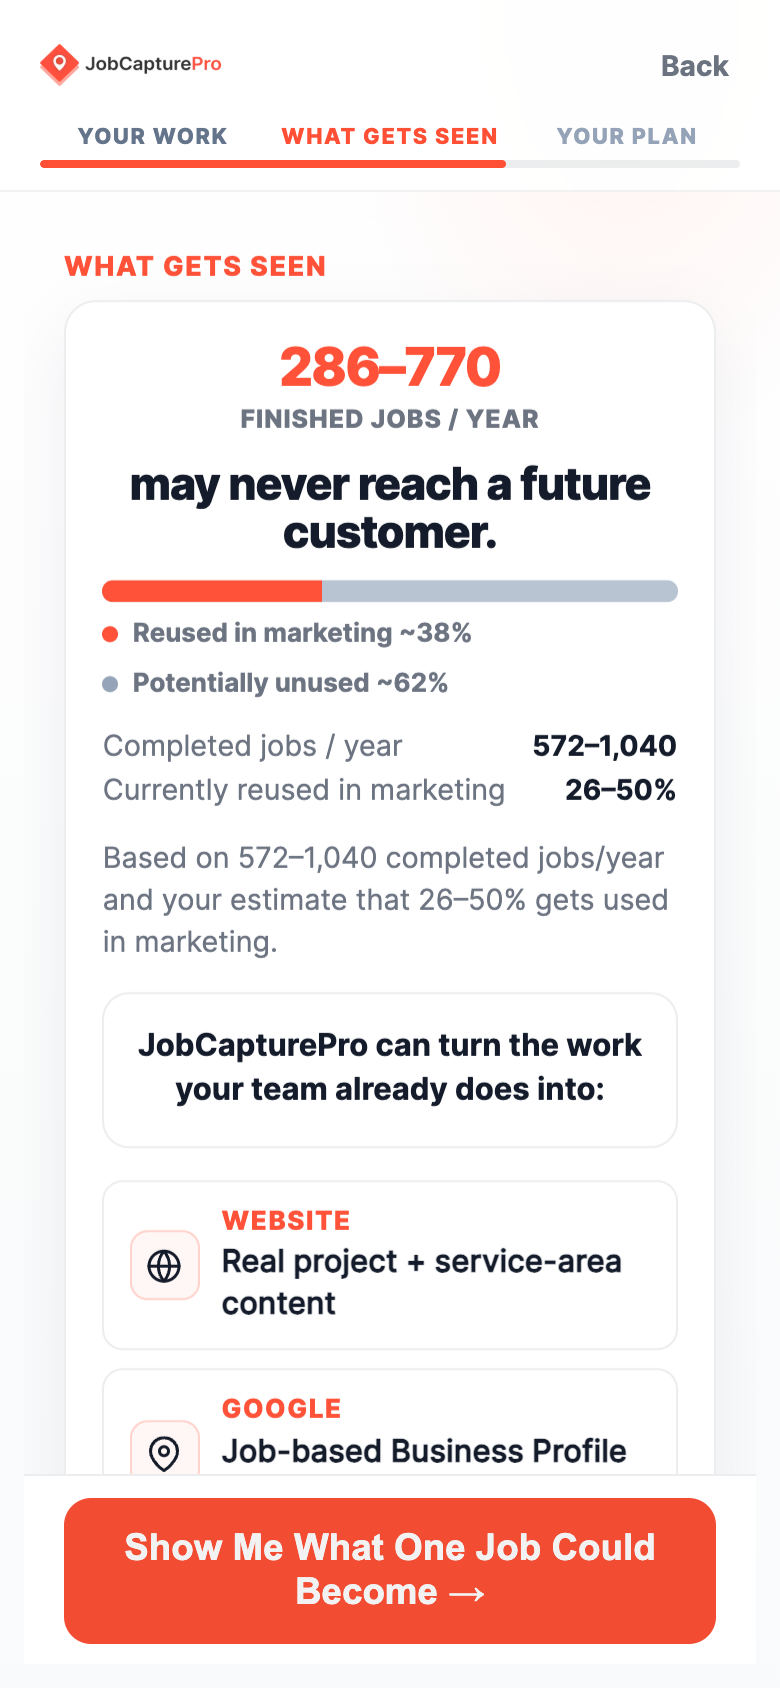
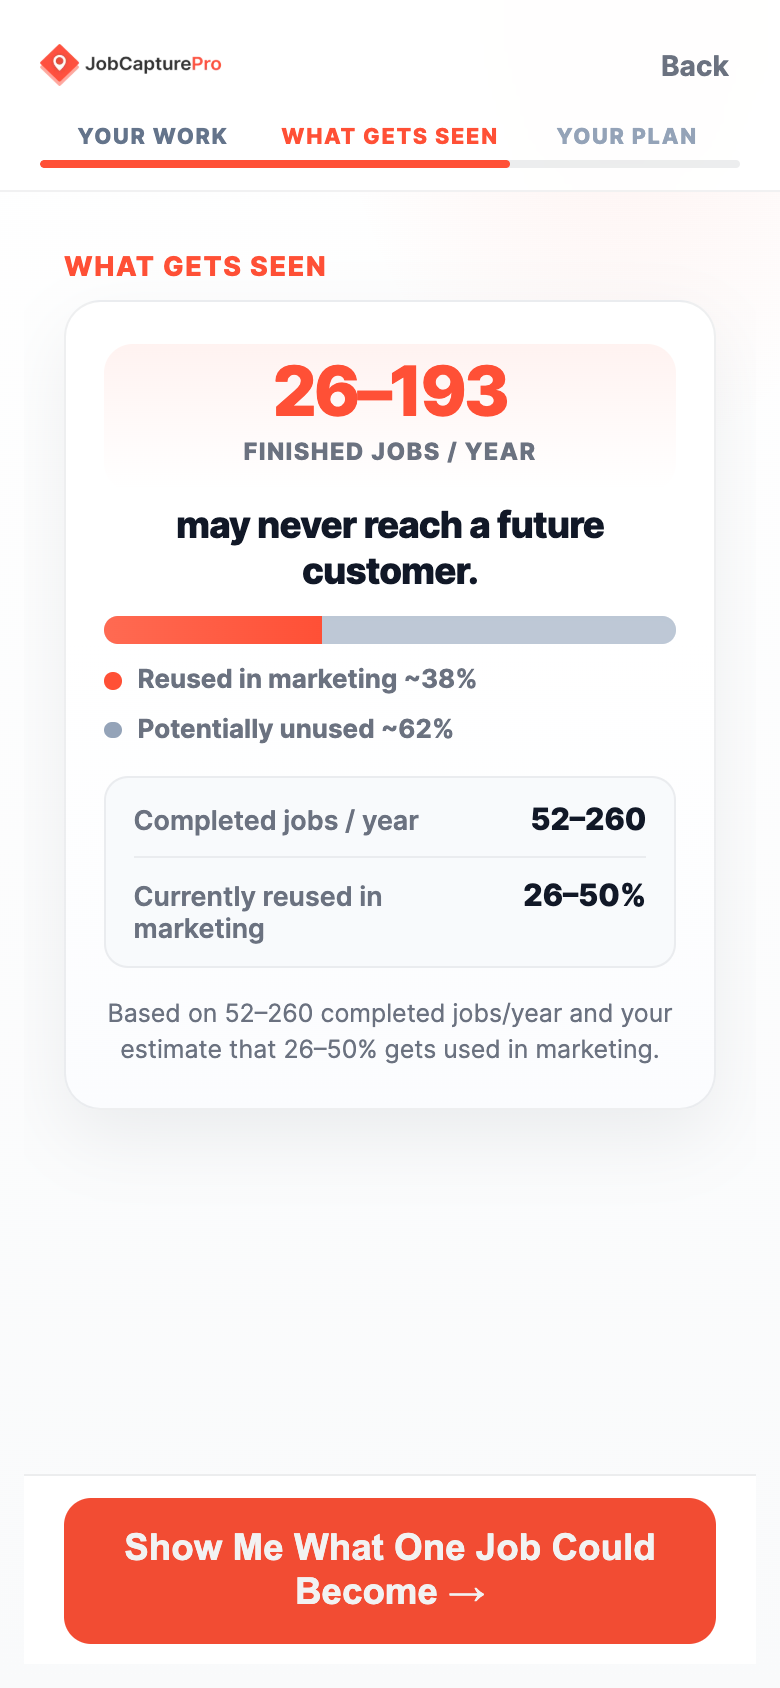
Strip result channel list and strengthen the metrics card.

diff --git a/css/pages/proof-gap.css b/css/pages/proof-gap.css
@@ -638,11 +638,14 @@ body.jcp-proof-gap .pg-btn:disabled {
 }
 
 body.jcp-proof-gap .pg-result {
-  padding: 1.15rem;
-  border-radius: 1rem;
-  border: 1px solid rgba(15, 23, 42, 0.08);
-  background: var(--pg-card);
-  box-shadow: 0 12px 32px rgba(15, 23, 42, 0.06);
+  padding: 1.35rem 1.2rem 1.25rem;
+  border-radius: 1.15rem;
+  border: 1px solid rgba(15, 23, 42, 0.07);
+  background:
+    linear-gradient(180deg, #fff 0%, #fff 42%, #fbfcfe 100%);
+  box-shadow:
+    0 1px 0 rgba(255, 255, 255, 0.9) inset,
+    0 14px 36px rgba(15, 23, 42, 0.07);
 }
 
 body.jcp-proof-gap .pg-result__meta {
@@ -696,8 +699,9 @@ body.jcp-proof-gap .pg-result__vs {
 }
 
 body.jcp-proof-gap .pg-result__note {
-  margin: 1rem 0 0;
-  font-size: 0.9rem;
+  margin: 0.85rem 0 0;
+  text-align: center;
+  font-size: 0.78rem;
   line-height: 1.45;
   color: var(--pg-muted);
 }
@@ -2040,22 +2044,27 @@ body.jcp-proof-gap .pg-proof-grid__cap {
 
 body.jcp-proof-gap .pg-result__hero {
   text-align: center;
-  margin-bottom: 0.75rem;
+  margin: 0 0 0.35rem;
+  padding: 0.35rem 0.5rem 0.7rem;
+  border-radius: 0.9rem;
+  background: linear-gradient(180deg, rgba(255, 80, 54, 0.07) 0%, rgba(255, 80, 54, 0.02) 70%, transparent 100%);
 }
 
 body.jcp-proof-gap .pg-result__hero-num {
   display: block;
-  font-size: clamp(1.65rem, 5vw, 2.15rem);
+  font-size: clamp(2.15rem, 8.5vw, 2.85rem);
   font-weight: 900;
-  letter-spacing: -0.03em;
+  letter-spacing: -0.04em;
   color: var(--pg-accent);
-  line-height: 1.1;
+  line-height: 1.05;
 }
 
 body.jcp-proof-gap .pg-result__hero-label {
-  font-size: 0.78rem;
+  display: inline-block;
+  margin-top: 0.35rem;
+  font-size: 0.74rem;
   font-weight: 800;
-  letter-spacing: 0.04em;
+  letter-spacing: 0.06em;
   text-transform: uppercase;
   color: var(--pg-muted);
 }
@@ -2131,11 +2140,14 @@ body.jcp-proof-gap .pg-gap-viz__dot--gap {
 
 body.jcp-proof-gap .pg-result__stats {
   list-style: none;
-  margin: 0;
-  padding: 0;
+  margin: 0.15rem 0 0;
+  padding: 0.7rem 0.85rem;
   display: grid;
-  gap: 0.35rem;
+  gap: 0.55rem;
   font-size: 0.9rem;
+  border-radius: 0.75rem;
+  background: #f8fafc;
+  border: 1px solid rgba(15, 23, 42, 0.06);
 }
 
 body.jcp-proof-gap .pg-result__stats li {
@@ -2145,15 +2157,24 @@ body.jcp-proof-gap .pg-result__stats li {
   gap: 0.75rem;
 }
 
+body.jcp-proof-gap .pg-result__stats li + li {
+  padding-top: 0.55rem;
+  border-top: 1px solid rgba(15, 23, 42, 0.06);
+}
+
 body.jcp-proof-gap .pg-result__stats strong {
   white-space: nowrap;
   flex-shrink: 0;
-  font-size: 0.88rem;
+  font-size: 0.95rem;
+  font-weight: 800;
+  color: var(--pg-ink);
   text-align: right;
 }
 
 body.jcp-proof-gap .pg-result__stats span {
   color: var(--pg-muted);
+  font-weight: 600;
+  font-size: 0.84rem;
 }
 
 body.jcp-proof-gap .pg-job-card__neutral {
@@ -3191,27 +3212,28 @@ body.jcp-proof-gap .pg-dest-panel.is-switching {
 
 /* ─── Result horizontal bar only ─── */
 body.jcp-proof-gap .pg-result-bar {
-  margin: 0.5rem 0 0.75rem;
+  margin: 0.35rem 0 0.95rem;
 }
 body.jcp-proof-gap .pg-result-bar__track {
   display: flex;
-  height: 0.65rem;
+  height: 0.9rem;
   border-radius: 999px;
   overflow: hidden;
-  background: #e2e8f0;
+  background: #e8edf3;
+  box-shadow: inset 0 1px 2px rgba(15, 23, 42, 0.06);
 }
 body.jcp-proof-gap .pg-result-bar__seg--visible {
-  background: var(--pg-accent);
+  background: linear-gradient(90deg, #ff6a52, var(--pg-accent));
 }
 body.jcp-proof-gap .pg-result-bar__seg--gap {
-  background: #94a3b8;
-  opacity: 0.55;
+  background: #b6c2d1;
+  opacity: 0.85;
 }
 body.jcp-proof-gap .pg-result-bar__legend {
   display: flex;
   flex-wrap: wrap;
-  gap: 0.45rem 0.85rem;
-  margin-top: 0.45rem;
+  gap: 0.45rem 1rem;
+  margin-top: 0.55rem;
   font-size: var(--pg-fs-tertiary);
   color: var(--pg-muted);
   font-weight: 650;
@@ -3224,10 +3246,10 @@ body.jcp-proof-gap .pg-result-bar__legend > span {
 }
 body.jcp-proof-gap .pg-result-bar__dot {
   display: inline-block;
-  width: 0.5rem;
-  height: 0.5rem;
+  width: 0.55rem;
+  height: 0.55rem;
   border-radius: 50%;
-  margin-right: 0.25rem;
+  margin-right: 0.3rem;
   vertical-align: middle;
 }
 body.jcp-proof-gap .pg-result-bar__dot--visible {
@@ -3397,8 +3419,10 @@ body.jcp-proof-gap .proof-gap-insight-card--jobs .proof-gap-insight-card__extra 
 }
 
 body.jcp-proof-gap .pg-result__title {
-  margin: 0.35rem 0 0.75rem;
+  margin: 0.15rem 0 0.55rem;
   text-align: center;
+  font-size: clamp(1.15rem, 3.8vw, 1.4rem);
+  line-height: 1.25;
 }
 
 body.jcp-proof-gap .pg-result__hero-sub {
@@ -3406,6 +3430,10 @@ body.jcp-proof-gap .pg-result__hero-sub {
   font-size: var(--pg-fs-body);
   color: var(--pg-ink);
   line-height: 1.4;
+}
+
+body.jcp-proof-gap .pg-result__support:empty {
+  display: none;
 }
 
 body.jcp-proof-gap .pg-result__channel-cards {

diff --git a/assets/js/pages/proof-gap.js b/assets/js/pages/proof-gap.js
@@ -1630,14 +1630,7 @@
     var tier = proofTier(state.public_proof_percentage);
     computeUnusedRange();
 
-    var channelsHtml =
-      '<ul class="pg-result__channel-cards">' +
-      '<li class="pg-result__channel"><span class="pg-result__channel-icon" aria-hidden="true"><svg viewBox="0 0 24 24" width="18" height="18" fill="none" stroke="currentColor" stroke-width="2" stroke-linecap="round" stroke-linejoin="round"><circle cx="12" cy="12" r="10"/><path d="M2 12h20"/><path d="M12 2a15.3 15.3 0 010 20 15.3 15.3 0 010-20z"/></svg></span><span class="pg-result__channel-copy"><strong>Website</strong><span>Real project + service-area content</span></span></li>' +
-      '<li class="pg-result__channel"><span class="pg-result__channel-icon" aria-hidden="true"><svg viewBox="0 0 24 24" width="18" height="18" fill="none" stroke="currentColor" stroke-width="2" stroke-linecap="round" stroke-linejoin="round"><path d="M21 10c0 7-9 13-9 13s-9-6-9-13a9 9 0 0118 0z"/><circle cx="12" cy="10" r="3"/></svg></span><span class="pg-result__channel-copy"><strong>Google</strong><span>Job-based Business Profile activity</span></span></li>' +
-      '<li class="pg-result__channel"><span class="pg-result__channel-icon" aria-hidden="true"><svg viewBox="0 0 24 24" width="18" height="18" fill="none" stroke="currentColor" stroke-width="2" stroke-linecap="round" stroke-linejoin="round"><circle cx="18" cy="5" r="3"/><circle cx="6" cy="12" r="3"/><circle cx="18" cy="19" r="3"/><line x1="8.59" y1="13.51" x2="15.42" y2="17.49"/><line x1="15.41" y1="6.51" x2="8.59" y2="10.49"/></svg></span><span class="pg-result__channel-copy"><strong>Social</strong><span>Ready-to-publish content</span></span></li>' +
-      '<li class="pg-result__channel"><span class="pg-result__channel-icon" aria-hidden="true"><svg viewBox="0 0 24 24" width="18" height="18" fill="none" stroke="currentColor" stroke-width="2" stroke-linecap="round" stroke-linejoin="round"><polygon points="12 2 15.09 8.26 22 9.27 17 14.14 18.18 21.02 12 17.77 5.82 21.02 7 14.14 2 9.27 8.91 8.26 12 2"/></svg></span><span class="pg-result__channel-copy"><strong>Reviews</strong><span>Timely review opportunities</span></span></li>' +
-      '<li class="pg-result__channel"><span class="pg-result__channel-icon" aria-hidden="true"><svg viewBox="0 0 24 24" width="18" height="18" fill="none" stroke="currentColor" stroke-width="2" stroke-linecap="round" stroke-linejoin="round"><path d="M3 21h18"/><path d="M5 21V7l7-4 7 4v14"/><path d="M9 21v-6h6v6"/></svg></span><span class="pg-result__channel-copy"><strong>Directory</strong><span>Another place to show recent work</span></span></li>' +
-      '</ul>';
+    if (support) support.innerHTML = '';
 
     function setResultNote(text, asQuote) {
       if (!note) return;
@@ -1650,7 +1643,6 @@
       if (completed) completed.textContent = formatAnnualRange();
       if (heroLabel) heroLabel.textContent = 'completed jobs / year';
       if (heroSub) {
-        // Avoid repeating Capture→Create→Publish; the quote + next panel carry that beat.
         heroSub.hidden = true;
         heroSub.textContent = '';
       }
@@ -1662,17 +1654,6 @@
         if (invLabel) invLabel.textContent = 'Currently reused in marketing';
       }
       setResultNote('You’re already doing the hard part.', true);
-      if (support) {
-        support.innerHTML =
-          '<div class="pg-result__next">' +
-          '<p class="pg-result__bridge">JobCapturePro automates:</p>' +
-          '<p class="pg-result__flow">' +
-          '<span>Capture</span><span class="pg-result__flow-arrow" aria-hidden="true">→</span>' +
-          '<span>Create</span><span class="pg-result__flow-arrow" aria-hidden="true">→</span>' +
-          '<span>Publish</span></p>' +
-          '</div>' +
-          channelsHtml;
-      }
       renderGapViz();
       return;
     }
@@ -1689,15 +1670,6 @@
       if (pub) pub.textContent = formatAnnualRange();
       if (invWrap) invWrap.hidden = true;
       setResultNote('Based on the ranges you selected.', false);
-      if (support) {
-        support.innerHTML =
-          '<div class="pg-result__next">' +
-          '<p class="pg-result__bridge">Your team creates about ' +
-          escapeHtml(formatAnnualRange()) +
-          ' completed jobs a year. JobCapturePro can turn them into:</p>' +
-          '</div>' +
-          channelsHtml;
-      }
       renderGapViz();
       return;
     }
@@ -1731,13 +1703,6 @@
         ' gets used in marketing.',
       false
     );
-    if (support) {
-      support.innerHTML =
-        '<div class="pg-result__next">' +
-        '<p class="pg-result__bridge">JobCapturePro can turn the work your team already does into:</p>' +
-        '</div>' +
-        channelsHtml;
-    }
     renderGapViz();
   }
 
